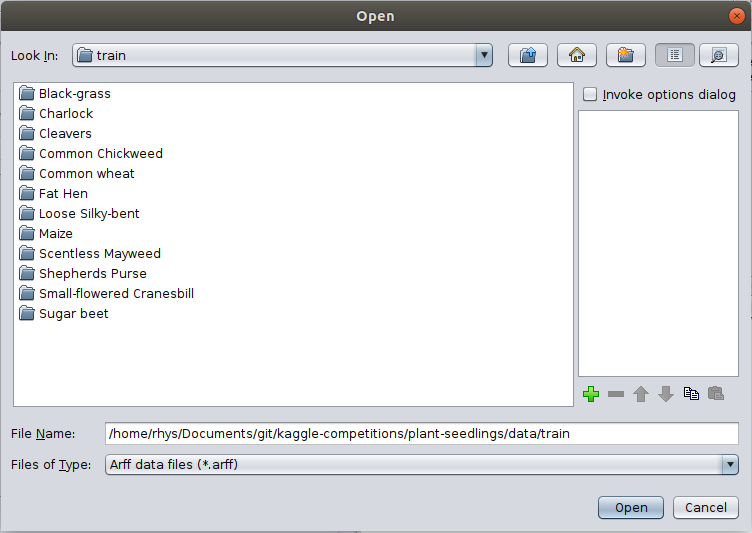
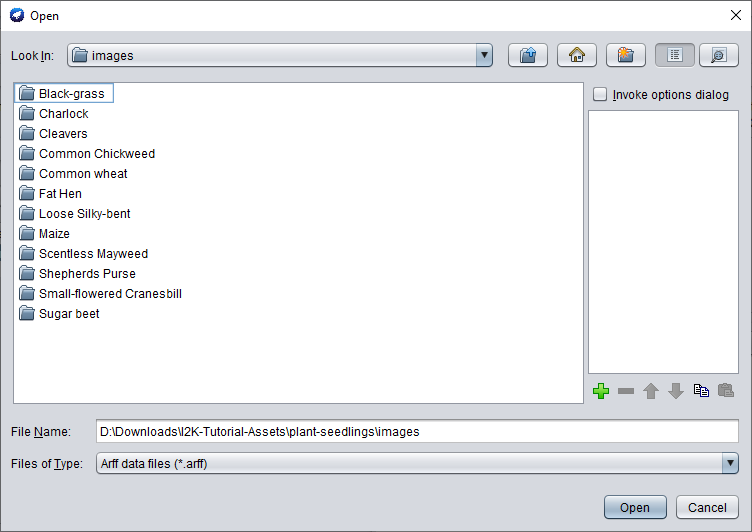
:memo: :recycle: Minor wording/image changes

diff --git a/1-introduction_setup.md b/1-introduction_setup.md
@@ -5,7 +5,6 @@
     <a href="/I2K-Tutorial">Home</a>
     <a href="2-training.html">Next Page</a>
 </div>
-<br>
 
 This is an introductory section which goes through the required steps to set up WEKA, **WekaDeeplearning4j**, and the GPU accelerated libraries (if your machine supports it).
 
@@ -31,8 +30,8 @@ At the end of this page are some short tips & tricks to make using WEKA even eas
 
 The command-line examples in this tutorial assume a few environment variables are set. You can ignore these if you only wish to use the GUI.
 
-- `WEKA_HOME`: This variable should point to the location of your WEKA installation, e.g., `/home/rhys/weka-3.8.4`. It's used for some commands in this tutorial and by the `install-cuda-libs` script ([explained below](#wekadeeplearning4j-gpu-libraries)) to install CUDA libraries for WEKA.
-- `CLASSPATH`: This variable is used by Java to locate classes to loaded before running. This can be manually specified for each command-line run but this becomes arduous to do every time, so it's recommended to set this permanently (at least for the duration of this tutorial). This variable should point to the location of `weka.jar` on your machine - typically inside the WEKA installation directory, e.g., `$WEKA_HOME\weka.jar`.
+- `WEKA_HOME`: This variable should point to the location of your WEKA installation, e.g., `/home/rhys/weka-3.8.4`. It's used for some commands in this tutorial and by the `install-cuda-libs` script ([explained below](#wekadeeplearning4j-gpu-libraries)) to install the CUDA libraries for WEKA.
+- `CLASSPATH`: Java uses this variable to locate and load classes at runtime. This can be manually specified for each command-line run but this becomes arduous to do every time, so it's recommended to set this permanently (at least for the duration of this tutorial). This variable should point to the location of `weka.jar` on your machine - typically inside the WEKA installation directory, e.g., `$WEKA_HOME\weka.jar`.
 
 ## Installing WekaDeeplearning4j
 
@@ -43,7 +42,7 @@ The final required step is to install the **WekaDeeplearning4j** package from th
 
 ![Package Manager](./images/1-introduction_setup/PackageManager.png)
 
-The package can also be installed simply via the command-line by downloading the most recent [package zip](https://github.com/Waikato/wekaDeeplearning4j/releases/latest), then running:
+The package can also be installed via the command-line by downloading the most recent [package zip](https://github.com/Waikato/wekaDeeplearning4j/releases/latest), then running:
 ```bash
 $ java weka.core.WekaPackageManager -install-package <PACKAGE-ZIP>
 ```
@@ -61,7 +60,7 @@ Installed	Repository	Loaded	Package
 
 ## Add GPU Support
 
-The GPU additions needs the CUDA Toolkit 10.0, 10.1, or 10.2 backend with the appropriate cuDNN library to be installed on your system. Nvidia provides some good installation instructions:
+The GPU additions needs CUDA Toolkit (10.0, 10.1, or 10.2) and corresponding appropriate cuDNN library to be installed on your machine. Nvidia provides some good installation instructions:
 
 ### CUDA Toolkit
 - [Linux](http://docs.nvidia.com/cuda/cuda-installation-guide-linux/index.html)
@@ -73,11 +72,11 @@ The GPU additions needs the CUDA Toolkit 10.0, 10.1, or 10.2 backend with the ap
 
 ### WekaDeeplearning4j GPU libraries
 
-After setting up CUDA correctly on your machine, you'll need to download the WekaDeeplearning4j CUDA/CUDNN libraries. [Download](https://github.com/Waikato/wekaDeeplearning4j/releases/latest) and run the latest `install-cuda-libs.sh` for Linux or `install-cuda-libs.ps1` for Windows.
+After setting up CUDA correctly on your machine, you'll need to install the WekaDeeplearning4j CUDA/cuDNN libraries. [Download](https://github.com/Waikato/wekaDeeplearning4j/releases/latest) and run the latest `install-cuda-libs.sh` for Linux or `install-cuda-libs.ps1` for Windows.
 
 The install script automatically downloads the libraries and copies them into your wekaDeeplearning4j package installation. If you want to download the library zip yourself, choose the appropriate combination of your platform and CUDA version from the [latest release](https://github.com/Waikato/wekaDeeplearning4j/releases/latest) and point the installation script to the file, e.g.:
 ```bash
-./install-cuda-libs.sh ~/Downloads/wekaDeeplearning4j-cuda-10.2-1.6.0-linux-x86_64.zip
+./install-cuda-libs.sh ~/Downloads/wekaDeeplearning4j-cuda-10.2-1.7.0-linux-x86_64.zip
 ```
 
 ## General Tips
@@ -85,13 +84,13 @@ The install script automatically downloads the libraries and copies them into yo
 ### Running WEKA from the Command Line
 
 A common workflow is to experiment with different models/hyperparameters in the **WEKA Explorer** on a small subset of the data,
-then run the final configuration on a more powerful machine/server with the full dataset. Figuring out the correct command-line syntax on the server directly can be difficult, especially for complex models, so WEKA has a `Copy configuration to clipboard` function.
+then run the final configuration with the full dataset on a more powerful headless server. Figuring out the correct command-line syntax on the server directly can be difficult, especially for complex models, so WEKA has a `Copy configuration to clipboard` function.
 
 1. Set up your configuration in the **WEKA Explorer** window (e.g., on your local machine), then right click and click `Copy configuration to clipboard`:
     
     ![Copy configuration to clipboard example](./images/1-introduction_setup/CopyConfiguration.png)
 
-2. Paste this into the command line (e.g., on your association's machine learning servers), specifying any other necessary flags run not included in the pasted configuration. For example training a `Dl4jMlpClassifier` can be done like:
+2. Paste this into the command line (e.g., on your association's machine learning servers), specifying any other necessary flags not included in the pasted configuration. For example training a `Dl4jMlpClassifier` can be done like:
 
     ```bash
     $ java weka.Run <Dl4jMlpClassifier configuration from clipboard> \
@@ -105,4 +104,3 @@ then run the final configuration on a more powerful machine/server with the full
     <a href="/I2K-Tutorial">Home</a>
     <a href="2-training.html">Next Page</a>
 </div>
-<br>

diff --git a/4-inference.md b/4-inference.md
@@ -5,7 +5,6 @@
     <a href="/I2K-Tutorial">Home</a>
     <a href="/I2K-Tutorial">Next Page</a>
 </div>
-<br>
 
 WekaDeeplearning4j includes a new `Dl4j Inference` panel, which allows you to easily run inference on images using either the built-in [Model Zoo](https://deeplearning.cms.waikato.ac.nz/user-guide/model-zoo/)
 or a custom trained `Dl4jMlpClassifier` model. This panel doesn't require you to load an entire `.arff` dataset, so it's great for quick experimentation and prototyping.
@@ -29,7 +28,7 @@ This example uses the built-in `Dl4jResNet50` model (pretrained
 ### GUI
 
 After switching to the `Dl4j Inference` panel, we'll need to open an image 
-to run prediction on. We'll use `pufferfish.jpg` for this example (see above for full path),
+to run prediction on. We'll use `pufferfish.jpg` for this example,
 although you can use any image saved to your machine.
 
 ![Loaded pufferfish image](./images/4-inference/panel_pufferfish.png)
@@ -122,7 +121,7 @@ ben_stiller.jpg - Dl4jVGG (VGG16)
 
 Although a very diverse dataset (IMAGENET) was used to train many of the built-in zoo models (meaning they can perform accurate prediction in a wide range of domains), you may instead have a custom-trained `Dl4jMlpClassifier` which you'd like to experiment with; the process is largely the same as above, with a few minor changes.
 
-To save a model you've trained in WEKA, right click on the result and click `Save model`.
+To save a model you've trained in WEKA, right click on the result and click `Save model` (or use the `-d` argument from the command-line).
 
 ![Saving a Dl4jMlpClassifier](./images/4-inference/Explorer_saveModel.png)
 
@@ -136,7 +135,7 @@ On the `Dl4j Inference` panel, open the `Dl4jCNNExplorer` settings:
 
 - Set `Use custom-trained model file` to `True`
 - Open the `CustomModelSetup` settings
-    - Select the supplied `.model` file as the `Serialized model file`
+    - Select the supplied `224x224x3_aptos.model` file as the `Serialized model file`
     - Set the input `channels`, `width`, and `height` with the values used to train the model. These values will be identical to those set on the `ImageInstanceIterator` (in this case `3`, `224`, `224`, respectively).
 
         ![Dl4jCNNExplorer Settings](./images/4-inference/Dl4jCNNExplorer_customModel.png)
@@ -169,7 +168,7 @@ Configure the `ModelOutputDecoder`:
 
 Just like the previous examples, the custom model can perform inference on any image, although for meaningful results you should run it on images in the domain it was trained on - a model trained to classify between different dog breeds isn't going to give accurate answers when given a chest x-ray!
 
-- Open an image from the supplied **APTOS** dataset and click `Start` to perform prediction on it. You can check the supplied `.arff` file to verify the predictions are accurate.
+- Open an image from the supplied **APTOS** dataset and click `Start` to perform prediction on it. You can check the supplied `.arff` file to verify the model's accuracy.
 
 ### Command Line
 
@@ -196,14 +195,14 @@ For the purpose of this tutorial, we'll use **ResNet 101** to perform prediction
 ### GUI
 
 - In the `Dl4jCNNExplorer` settings, **set `Generate Saliency Map` to `true`**.
-- Set `Use serialized model file` to `False`
+- Set `Use custom-trained model file` to `False`
 - Open the `WekaScoreCAM` settings and set `Batch size` to 8 (or your number of CPU cores).
     - This allows **batches** of masked images to be passed through the model, decreasing
     saliency map generation time.
 - Choose `KerasResNet` as the `Pretrained zoo model` and set the `Model Variation` to `RESNET101`.
 - Ensure the `ModelOutputDecoder` is using `IMAGENET` as the built-in classmap.
 
-From the tutorial image folder, open `catAndDog.jpg`, then click `Start` to begin processing.
+From the tutorial image folder (`test-images`), open `catAndDog.jpg`, then click `Start` to begin processing.
 
 ![Explorer window during processing](./images/4-inference/panel_generatingMap.png)
 
@@ -275,3 +274,15 @@ The `Dl4j Inference` panel is made for playing around, so get your hands dirty. 
 - Try downloading some images of household objects of the internet and pass them in to one of the pretrained models - does it struggle on some particularly complex cases?
 - Find a picture of your favourite celebrity, set up the `Dl4jCNNExplorer` for [celebrity prediction](#simple-inference-with-custom-parameters), and see if the model can correctly predict who they are. You may need to check the [VGGFACE](https://deeplearning.cms.waikato.ac.nz/user-guide/class-maps/VGGFACE) class map to ensure your chosen celebrity is in the dataset.
 - Make sure to try out different models in the Model Zoo. Some are much larger than others, but can provide more accurate predictions.
+
+## The End
+
+Congratulations! You've completed the I2K 2020 **WekaDeeplearning4j** Tutorial! I hope you've enjoyed your time with this package and have learnt some useful skills you can apply to your own work.
+
+If you have any feedback on the tutorial/WekaDeeplearning4j, or just want to chat, feel free to get in touch with me via [Github](https://github.com/basedrhys), [LinkedIn](https://www.linkedin.com/in/rhyscompton-nz/), [Twitter](https://twitter.com/rhyscompton_nz), or Email (`rhys.compton@gmail.com`)
+
+<div style="display: flex; justify-content: space-evenly">
+    <a href="3-feature_extraction.html">Previous Page</a>
+    <a href="/I2K-Tutorial">Home</a>
+    <a href="/I2K-Tutorial">Next Page</a>
+</div>

diff --git a/2-training.md b/2-training.md
@@ -5,7 +5,6 @@
     <a href="/I2K-Tutorial">Home</a>
     <a href="3-feature_extraction.html">Next Page</a>
 </div>
-<br>
 
 This section walks through a common deep learning task - training a Neural Network. **WekaDeeplearning4j** allows you to do this in one of two ways, both of which will be explained in this section:
 - Design your own architecture, specifying a custom layer setup
@@ -79,7 +78,7 @@ This next section will walkthrough training a neural network on an image-classif
 
 Going to the `Classify` panel, if you click `Start` WEKA will throw an error (`...Dl4jMlpClassifier: Cannot handle string attributes`). This is because we're using a 'meta-style' dataset which only contains filenames. We need to configure the `Dl4jMlpClassifier` further to handle this new type of dataset and tell it what to do with these filenames.
 - In the `Dl4jMlpClassifier` settings, change the `instance iterator` from `DefaultInstanceIterator` to `ImageInstanceIterator`.
-- In the `ImageInstanceIterator` settings, set the `directory of images` to the `mnist-minimal` folder, and the `size of mini batch` to 64 (you can reduce this if you run into out-of-memory issues). 
+- In the `ImageInstanceIterator` settings, set the `directory of images` to `mnist-minimal/images/` , and the `size of mini batch` to 64 (you can reduce this if you run into out-of-memory issues). 
 
 ![Image Instance Iterator](./images/2-training/image-instance-iterator.png)
 
@@ -137,9 +136,9 @@ The dataset used in this tutorial is from the [Plant Seedlings Classification](h
 **WekaDeeplearning4j** comes with the `ImageDirectoryLoader`, a simple tool which creates an `.arff` file from a 'folder organised' dataset.
 
 #### GUI Usage
-The `ImageDirectoryLoader` can be invoked by selecting a *folder* instead of a *file* from the `Open file...` menu.
+The `ImageDirectoryLoader` can be invoked by selecting a *folder* instead of a *file* from the `Open file...` menu, from the **Preprocess** panel.
 
-- Click `Open File...` and navigate to the `train/` folder in the Plant Seedlings dataset you just downloaded.
+- Click `Open File...` and navigate to the `train/` folder in the Plant Seedlings dataset.
 
     ![Image Directory](./images/2-training/train-your-own-image-loader.png)
 
@@ -151,7 +150,7 @@ The `ImageDirectoryLoader` can be invoked by selecting a *folder* instead of a *
 
     ![Image Directory](./images/2-training/train-your-own-image-loader-complete.png)
 
-The **ImageDirectoryLoader** loads the dataset into the 'meta' format similarly to the MNIST dataset we used above.
+The **ImageDirectoryLoader** loads the dataset into the 'meta' format similar to the MNIST dataset we used above.
 
 #### Commandline Usage
 The tool can also be run from the command line
@@ -172,7 +171,7 @@ As we're simply checking accuracy within WEKA, we won't load in the `test/` data
 Now that we've loaded our custom dataset, we can get back to setting up our model.
 
 - If you haven't already, set `Dl4jMlpClassifier` as the `Classifier` and select the `ImageInstanceIterator` as `instance iterator`.
-- In the `ImageInstanceIterator` settings, set the `images location` to the `train/` directory in the Plant Seedlings dataset folder.
+- In the `ImageInstanceIterator` settings, set the `images location` to the `images/` directory in the `plant-seedlings` dataset folder.
 - As we'll be using a larger model than before, your machine may not be able to handle a `batch size` of `64`. Set it to `8` for now. We'll be using a pretrained model (which has a fixed input size) so the width, height, and number of channels don't need to be set. 
 
     ![Image Instance Iterator](./images/2-training/train-your-own-iii.png)
@@ -211,14 +210,14 @@ Using the `Resample` filter, we can randomly take out instances from our dataset
 
 As we're getting to modern CNN architectures, their size becomes large and training takes a long time. We can reduce the training time during experimentation, and then easily scale it back up once we've decided on the configuration.
 
-- Set `number of epochs` to `1`
+- In the `Dl4jMlpClassifier` settings, change `number of epochs` to `1`
 
 We're now ready for a short training run.
 
 - Keeping the same `80%` split, click `Start`
 
 ### Training - Commandline
-Ensure `weka.jar` is on the classpath. The following run finetunes a pretrained ResNet model for 20 epochs. This shows how to specify a non-default variation from the command line.
+
 ```bash
 $ java weka.Run \
     .Dl4jMlpClassifier \
@@ -244,4 +243,3 @@ We've introduced a few new features already, so now is the time to do some explo
     <a href="/I2K-Tutorial">Home</a>
     <a href="3-feature_extraction.html">Next Page</a>
 </div>
-<br>

diff --git a/3-feature_extraction.md b/3-feature_extraction.md
@@ -5,7 +5,6 @@
     <a href="/I2K-Tutorial">Home</a>
     <a href="4-inference.html">Next Page</a>
 </div>
-<br>
 
 Instead of training a full neural network on your dataset, you may like to try using a pretrained model as a feature extractor and fitting a simpler model to those features. This technique (implemented with the `Dl4jMlpFilter`) uses the neuron activations from a layer within the model to convert your image dataset into a numeric form - any classical ML algorithm can then be fit to this new form.
 
@@ -47,12 +46,12 @@ The steps shown below split this into two steps; storing the featurized dataset,
 
 ### GUI
 
-- Open the MNIST meta ARFF file in the Weka Explorer `Preprocess` tab via `Open File`. 
+- Open the `mnist.meta.minimal.arff` in the Weka Explorer `Preprocess` tab via `Open File`. 
 - Select the the `Dl4jMlpFilter` in the filter panel (within `filters/unsupervised/attribute`). Click in the properties box to open the filter settings.
 
   ![Classifier](./images/3-feature_extraction/featurize-std-filter.png)
 
-- Set up the `ImageInstanceIterator` as we did in the [previous tutorial](2-training.md), setting the `directory of images` as the `mnist-minimal` directory containing the actual image files. The `width`, `height`, and `channels` are automatically set based on the zoo model's input shape 
+- Set up the `ImageInstanceIterator` as we did in the [previous tutorial](2-training.md), setting the `directory of images` as the `mnist-minimal/images` directory containing the actual image files. The `width`, `height`, and `channels` are automatically set based on the zoo model's input shape 
 ([further explanation](../user-guide/model-zoo.md#image-instance-iterator)). 
 
 - (Optional) Set the batch size according to your machine's capability; this won't change the end result but will make processing faster. If you run into memory issues then use a smaller mini-batch size.
@@ -163,4 +162,3 @@ Now that we've shown you how to perform feature extraction, it's up to you to ha
     <a href="/I2K-Tutorial">Home</a>
     <a href="4-inference.html">Next Page</a>
 </div>
-<br>

diff --git a/0-asset_pack.md b/0-asset_pack.md
@@ -5,6 +5,7 @@
     <a href="/I2K-Tutorial">Home</a>
     <a href="1-introduction_setup.html">Next Page</a>
 </div>
-<br>
 
 Download the asset pack from [Google Drive](https://drive.google.com/file/d/13CpVNBHETanqeheNobpQGrl7T2-mXgq1/view?usp=sharing) and extract it somewhere easily accessible on your machine - you'll be referring to this folder many times throughout the tutorial.
+
+All datasets, images, and models referenced throughout the tutorial can be found in this asset pack.
